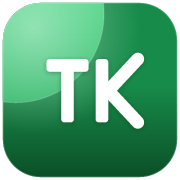
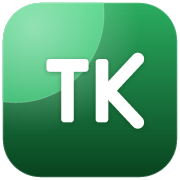
fix: โลโก้ TK — โซนเขียวเข้ม (3/4) ไล่สีจาง→เข้ม บนลงล่าง
ขยายไล่เฉดโซนเข้มให้เต็มความสูง (y8→504) จางบน (#2bad60) → เข้มล่าง (#08431f)
sync generator · icon.svg · Logo.tsx + PNG

Changed region(s): [[0.5556, 0.0, 0.9444, 0.1111]]

diff --git a/src/components/Logo.tsx b/src/components/Logo.tsx
@@ -17,9 +17,9 @@ export function Logo({ size = 40, className }: { size?: number; className?: stri
       xmlns="http://www.w3.org/2000/svg"
     >
       <defs>
-        <linearGradient id="tk-dark" x1="256" y1="240" x2="256" y2="504" gradientUnits="userSpaceOnUse">
-          <stop offset="0" stopColor="#178c4a" />
-          <stop offset="1" stopColor="#0b4f27" />
+        <linearGradient id="tk-dark" x1="256" y1="8" x2="256" y2="504" gradientUnits="userSpaceOnUse">
+          <stop offset="0" stopColor="#2bad60" />
+          <stop offset="1" stopColor="#08431f" />
         </linearGradient>
         <linearGradient id="tk-light" x1="256" y1="8" x2="256" y2="320" gradientUnits="userSpaceOnUse">
           <stop offset="0" stopColor="#48d381" />
